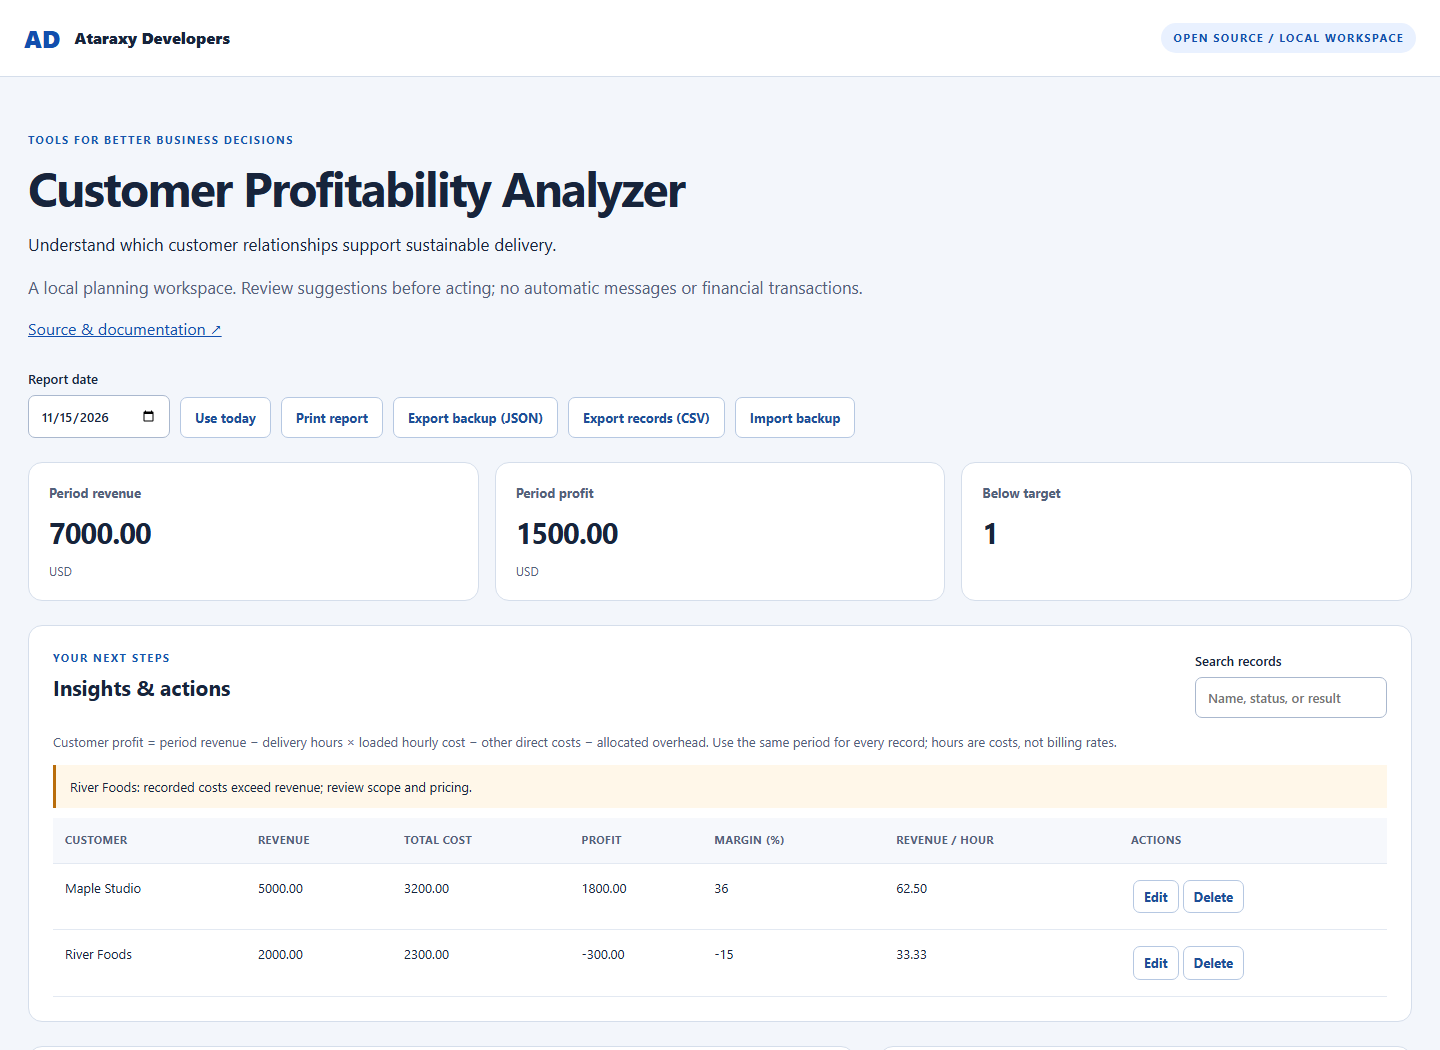
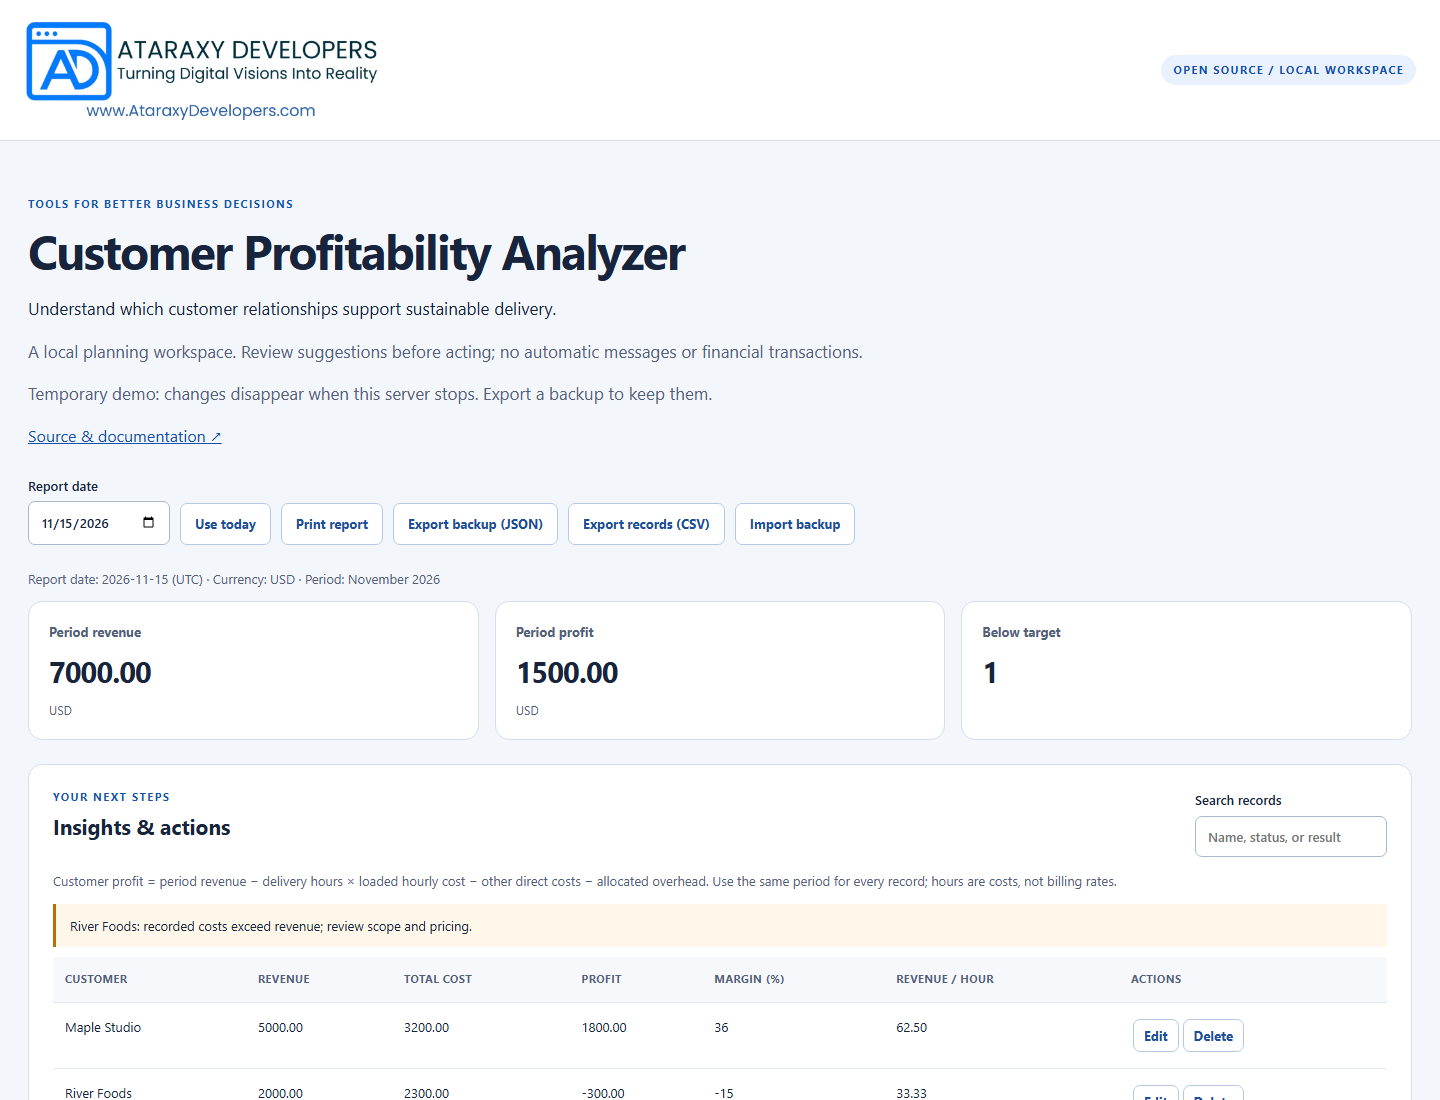
Use approved Ataraxy Developers branding

diff --git a/public/index.html b/public/index.html
@@ -4,16 +4,14 @@
     <meta charset="utf-8" />
     <meta name="viewport" content="width=device-width,initial-scale=1" />
     <title>Business workspace · Ataraxy Developers</title>
-    <link rel="icon" href="/favicon.svg" />
+    <link rel="icon" href="/ataraxy-developers-logo.png" type="image/png" />
     <link rel="stylesheet" href="/style.css" />
     <script type="module" src="/app.js"></script>
   </head>
   <body>
     <a class="skip" href="#main">Skip to workspace</a>
     <header>
-      <a class="brand" href="https://ataraxydevelopers.com"
-        >AD <span>Ataraxy Developers</span></a
-      ><span class="badge">OPEN SOURCE / LOCAL WORKSPACE</span>
+      <a class="brand" href="https://ataraxydevelopers.com"><img src="/ataraxy-developers-logo.png" alt="Ataraxy Developers — Turning Digital Visions Into Reality" width="1127" height="313" /></a><span class="badge">OPEN SOURCE / LOCAL WORKSPACE</span>
     </header>
     <main id="main">
       <section class="hero">

diff --git a/public/style.css b/public/style.css
@@ -40,10 +40,6 @@ header {
   font-weight: 800;
   text-decoration: none;
 }
-.brand span {
-  font-size: 16px;
-  color: #17243b;
-}
 .badge,
 .eyebrow {
   font-size: 11px;
@@ -364,3 +360,9 @@ footer {
     font-size: 27px;
   }
 }
+
+/* Use the complete, original company artwork without distortion. */
+header { flex-wrap: wrap; gap: 16px; background: #fff; }
+.brand { display: block; flex: 0 1 360px; min-width: 0; max-width: 100%; background: #fff; }
+.brand img { display: block; width: 360px; max-width: 100%; height: auto; }
+@media (max-width: 600px) { header { padding: 18px 20px; } .brand { flex-basis: 360px; } }

diff --git a/BRANDING.md b/BRANDING.md
@@ -1,0 +1,10 @@
+# Ataraxy Developers branding
+
+The company-approved logo is [public/ataraxy-developers-logo.png](public/ataraxy-developers-logo.png). It is the original PNG supplied by Ataraxy Developers on 2026-11-16, unchanged.
+
+- Preserve the complete artwork, its aspect ratio, and its white background.
+- Do not redraw it or substitute typed initials, an invented monogram, or generated artwork.
+- Use readable sizing and descriptive alternative text.
+- Capture screenshots from the working interface after this logo has loaded.
+
+SHA-256: 87ebc5a0092af0fff4524e805730ca3dc97c4483bd49f866528b8cdb97d422e7

diff --git a/README.md b/README.md
@@ -1,3 +1,5 @@
+<p><a href="https://ataraxydevelopers.com"><img src="public/ataraxy-developers-logo.png" alt="Ataraxy Developers — Turning Digital Visions Into Reality" width="520"></a></p>
+
 # Customer Profitability Analyzer
 
 [![CI](https://github.com/AtaraxyDevelopers/customer-profitability-analyzer/actions/workflows/ci.yml/badge.svg)](https://github.com/AtaraxyDevelopers/customer-profitability-analyzer/actions/workflows/ci.yml)

diff --git a/CHANGELOG.md b/CHANGELOG.md
@@ -1,5 +1,9 @@
 # Changelog
 
+## 0.1.2 — 2026-11-16
+
+Use the original, approved Ataraxy Developers logo and document its source. Update the interface and browser icon, serve the PNG correctly, and replace the README screenshot with a capture of the corrected app.
+
 ## 0.1.1
 
 - Correct optional date defaults when adding records.
